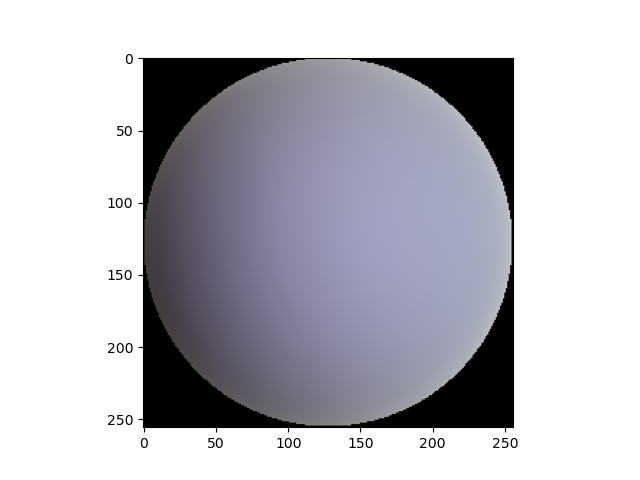
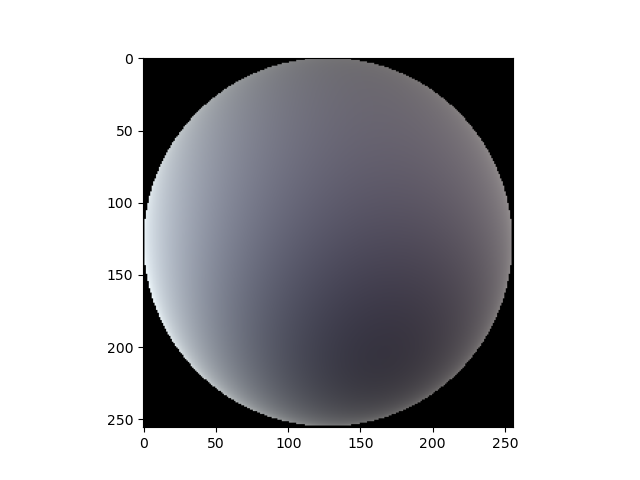
add pt_round = 1

diff --git a/experiment_scripts/TPAMI/anti_aliasing/perturb_ld_disc/shadow_test_vectorize_batch.py b/experiment_scripts/TPAMI/anti_aliasing/perturb_ld_disc/shadow_test_vectorize_batch.py
@@ -1,7 +1,7 @@
 import numpy as np
 import torch as pt
 from torchvision.utils import save_image
-import time
+import time, os
 from torchvision.transforms import GaussianBlur
 
 data = np.load('./depth_grid.npy', allow_pickle=True)
@@ -51,18 +51,26 @@ for b in range(100):
 
   big_coords = []
   round = 30
-  for ti in range(round):
-    tt = ti / (round - 1) * 2 * np.pi * 3
+  
+  if round > 1:
+    for ti in range(round):
+      tt = ti / (round - 1) * 2 * np.pi * 3
 
+      n = 224
+      pray = (orth * np.cos(tt) + orth2 * np.sin(tt)) * (ti / (round - 1)) * max_radius + ray
+
+      mxaxis = max(abs(pray[0]), abs(pray[1]))
+      shift = pray / mxaxis * pt.arange(n).view(n, 1)
+      # exit()
+      coords = grid.view(1, n, n, 3) + shift.view(n, 1, 1, 3)
+      big_coords.append(coords)
+    big_coords = pt.cat(big_coords, dim=0)
+  else:
     n = 224
-    pray = (orth * np.cos(tt) + orth2 * np.sin(tt)) * (ti / (round - 1)) * max_radius + ray
+    mxaxis = max(abs(ray[0]), abs(ray[1]))
+    shift = ray / mxaxis * pt.arange(n).view(n, 1)
+    big_coords = grid.view(1, n, n, 3) + shift.view(n, 1, 1, 3)
 
-    mxaxis = max(abs(pray[0]), abs(pray[1]))
-    shift = pray / mxaxis * pt.arange(n).view(n, 1)
-    # exit()
-    coords = grid.view(1, n, n, 3) + shift.view(n, 1, 1, 3)
-    big_coords.append(coords)
-  big_coords = pt.cat(big_coords, dim=0)
   # print(big_coords.shape)
   # exit()
 #
@@ -90,7 +98,7 @@ for b in range(100):
   # exit()
 
   output = pt.nn.functional.grid_sample(
-    pt.tile(grid[:, :, 2].view(1, 1, n, n), [n * round, 1, 1, 1]),
+    pt.tensor(np.tile(grid[:, :, 2].view(1, 1, n, n), [n * round, 1, 1, 1])),
     big_coords[..., :2] / (n - 1) * 2 - 1,
     align_corners=True)
   diff = big_coords[..., 2] - output[:, 0] 
@@ -102,6 +110,7 @@ for b in range(100):
   # print(kk.shape)
   # exit()
   # vis *= (pt.min(diff, dim=0)[0] > -0.1) * 0.5 + 0.5
-  save_image(vis, "output_%03d.png" % b)
+  os.makedirs("./r30", exist_ok=True)
+  save_image(vis, "./r30/output_%03d.png" % b)
   # exit()
   # save_image(vis, "output_vec.png")

diff --git a/sample_scripts/sample_utils/params_utils.py b/sample_scripts/sample_utils/params_utils.py
@@ -507,16 +507,23 @@ def render_shadow_mask_with_smooth(sh_light, cam, verts, deca, pt_dict, use_sh_t
         big_coords = []
         pt_round = pt_dict['pt_round']
 
-        for ti in tqdm.tqdm(range(pt_round), position=1, leave=False, desc="Rendering each perturbed light direction..."):
+        if pt_round > 1:
+            for ti in tqdm.tqdm(range(pt_round), position=1, leave=False, desc="Rendering each perturbed light direction..."):
 
-            tt = ti / (pt_round - 1) * 2 * np.pi * 3
+                tt = ti / (pt_round - 1) * 2 * np.pi * 3
+                n = 256 * up_rate
+                pray = (orth * np.cos(tt) + orth2 * np.sin(tt)) * (ti / (pt_round - 1)) * max_radius + ray
+
+                mxaxis = max(abs(pray[0]), abs(pray[1]))
+                shift = pray / mxaxis * th.arange(n).view(n, 1).to(device)
+                coords = depth_grid.view(1, n, n, 3) + shift.view(n, 1, 1, 3)
+                big_coords.append(coords)
+        else:
             n = 256 * up_rate
-            pray = (orth * np.cos(tt) + orth2 * np.sin(tt)) * (ti / (pt_round - 1)) * max_radius + ray
-
+            pray = ray.copy()
             mxaxis = max(abs(pray[0]), abs(pray[1]))
             shift = pray / mxaxis * th.arange(n).view(n, 1).to(device)
-            coords = depth_grid.view(1, n, n, 3) + shift.view(n, 1, 1, 3)
-            big_coords.append(coords)
+            big_coords = depth_grid.view(1, n, n, 3) + shift.view(n, 1, 1, 3)
 
         big_coords = th.cat(big_coords, dim=0)  # [pt_round * n, n, n, 3]
         output = th.nn.functional.grid_sample(
